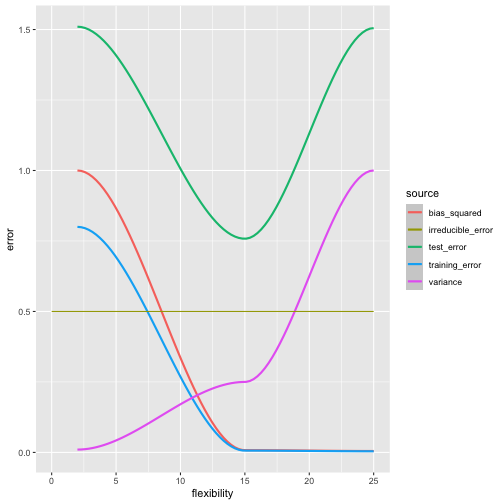
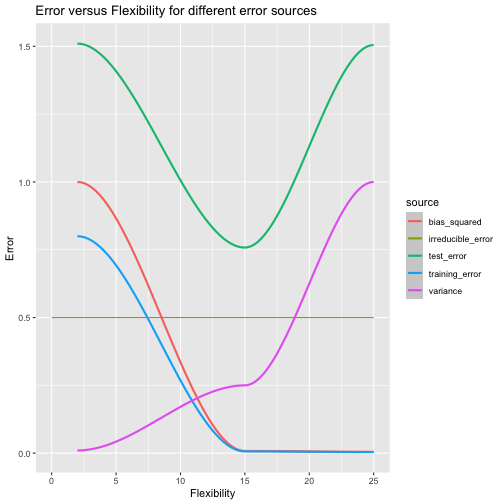
add title

diff --git a/isl/chapter_2/exercises.md b/isl/chapter_2/exercises.md
@@ -103,7 +103,8 @@ df_errors <- dplyr::bind_rows(
 
 ggplot2::ggplot(df_errors) +
   ggplot2::geom_smooth(ggplot2::aes(x = flexibility, y = error, color = source)) +
-  ggplot2::geom_line(data = df_irreducible_error, ggplot2::aes(x = flexibility, y = error, color = source))
+  ggplot2::geom_line(data = df_irreducible_error, ggplot2::aes(x = flexibility, y = error, color = source)) +
+  ggplot2::labs(x = "Flexibility", y = "Error", title = "Error versus Flexibility for different error sources")
 ```
 
 ![plot of chunk error_source_graph](figure/error_source_graph-1.png)
